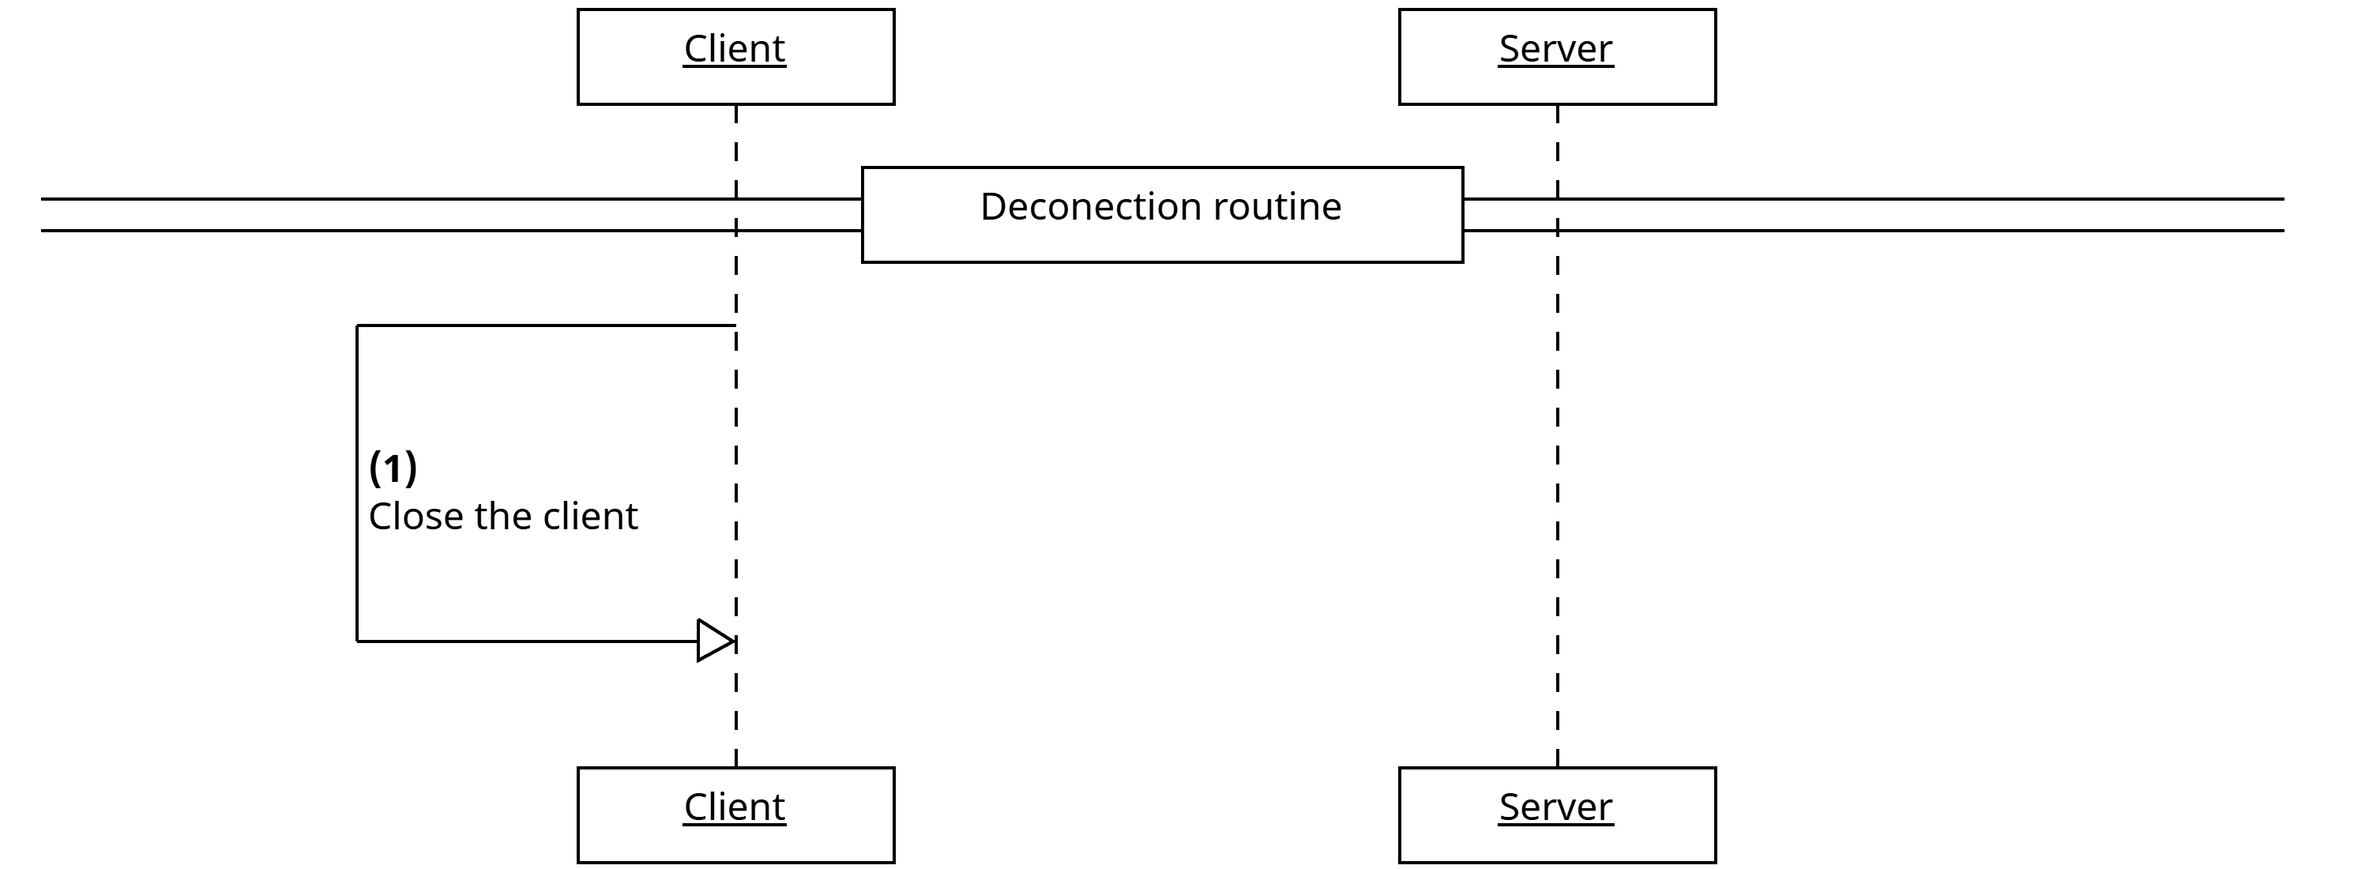
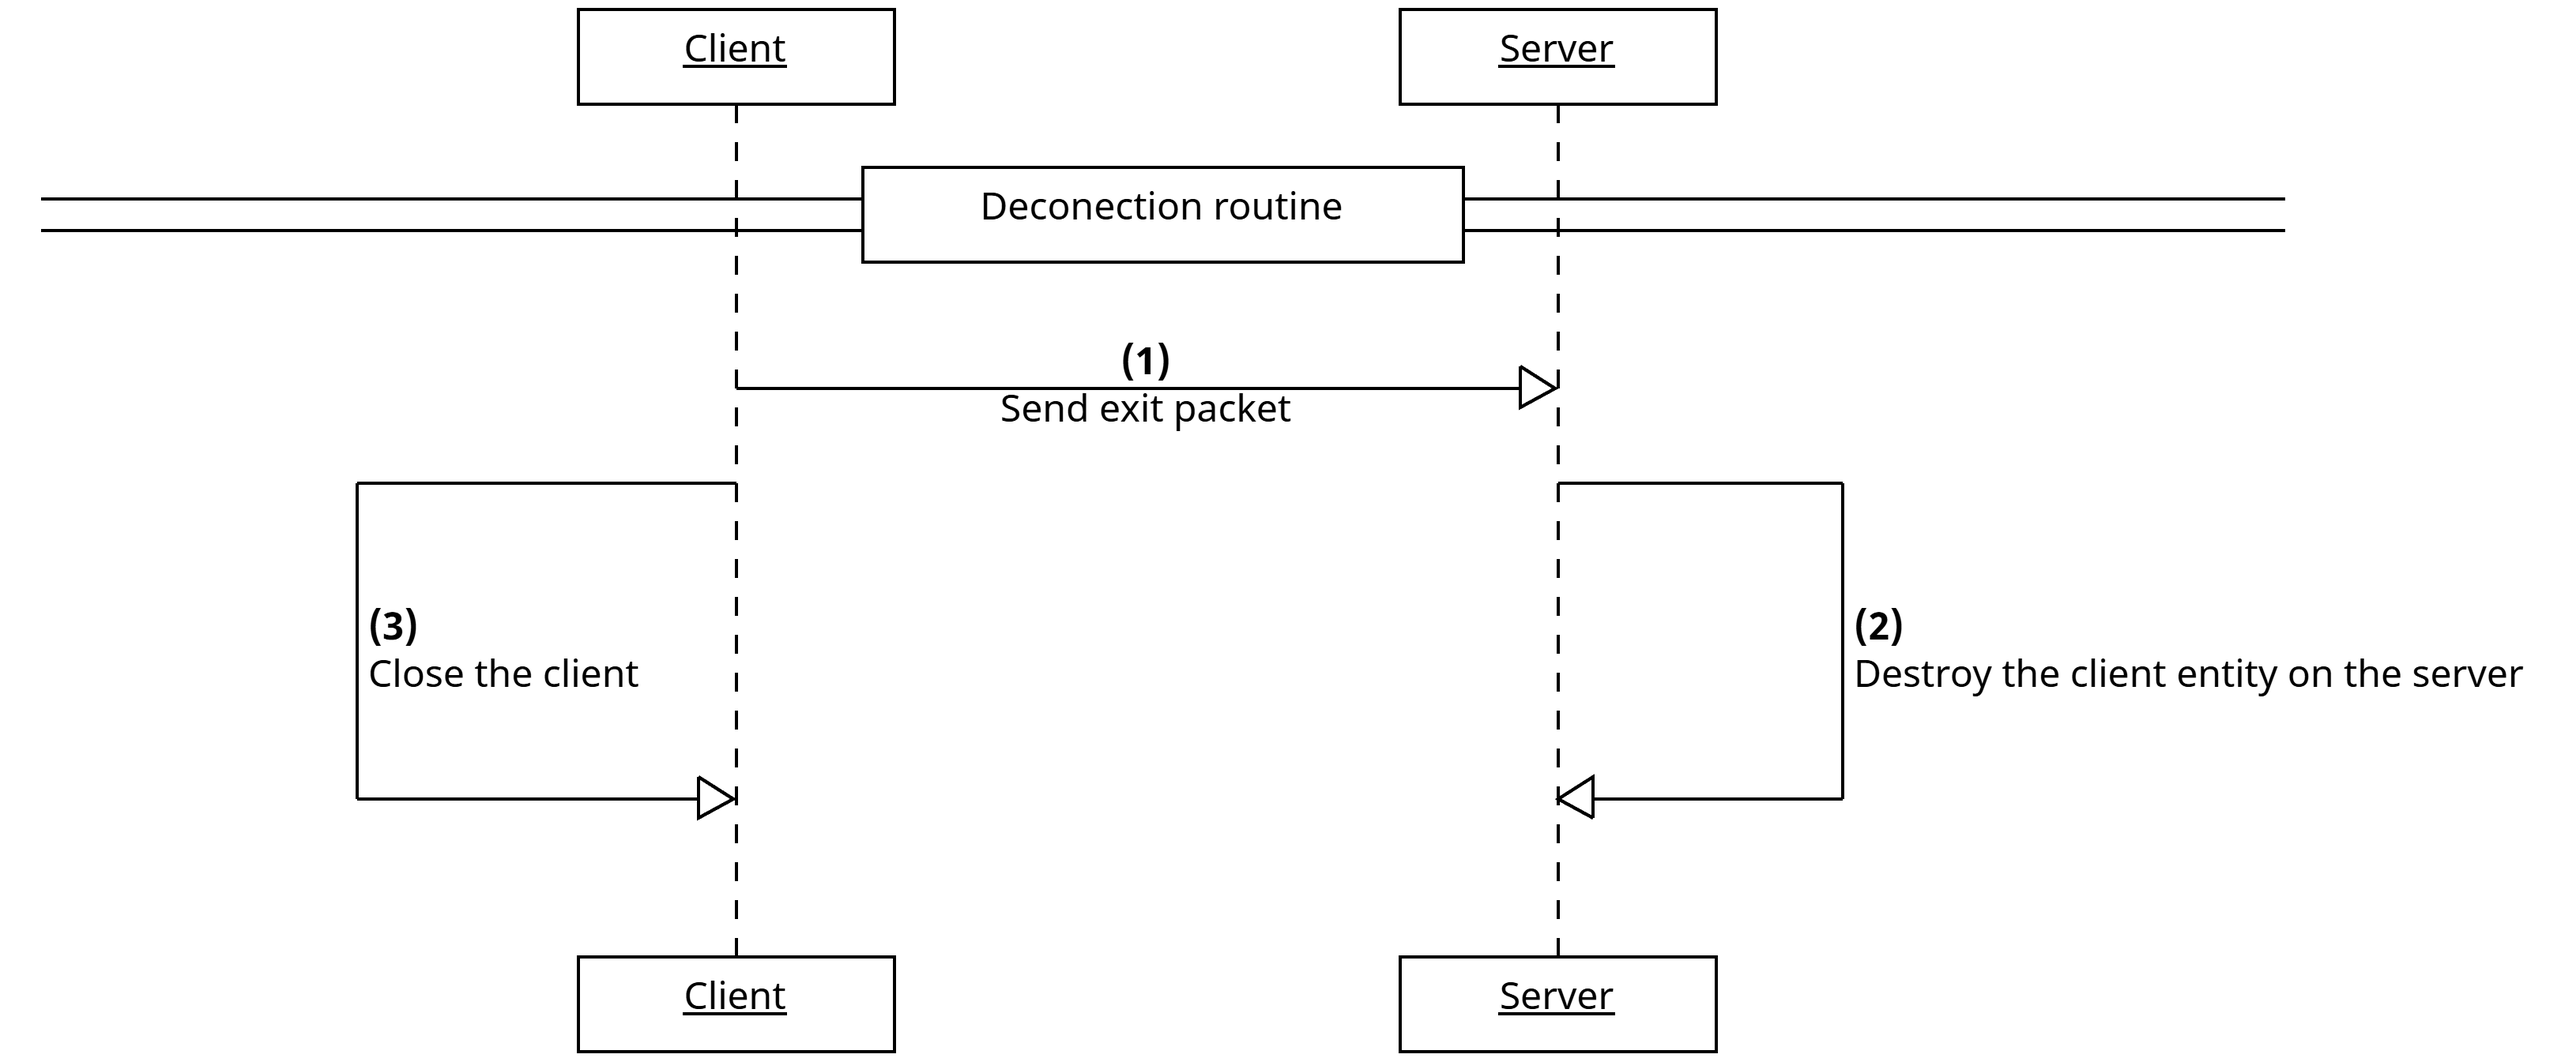
complet the protocol documentation

diff --git a/src/main/java/ch/heig/network/networkHandler/ServerNetworkHandlerSystem.java b/src/main/java/ch/heig/network/networkHandler/ServerNetworkHandlerSystem.java
@@ -6,7 +6,6 @@
 
 package ch.heig.network.networkHandler;
 
-import ch.heig.core.Entity;
 import ch.heig.network.coreVariant.ServerGame;
 import ch.heig.network.ClientData;
 import ch.heig.network.socket.GameSocket;
@@ -16,7 +15,7 @@ import ch.heig.network.packet.data.EntityData;
 import java.util.*;
 
 public class ServerNetworkHandlerSystem extends NetworkHandlerSystem{
-    private int _gameStateNumber=0;
+    private int _actualGameStateID =2147483647;
 
     private static float _TIME_BEFOR_LOGOUT=500;
 
@@ -47,6 +46,7 @@ public class ServerNetworkHandlerSystem extends NetworkHandlerSystem{
         for ( Packet p : buffer){
             switch(p.type){
                 case PacketType.playerInput :
+                {
                     InputPacket ip = p.safeCast(InputPacket.class);
                     if(ip==null)continue;
 
@@ -57,21 +57,25 @@ public class ServerNetworkHandlerSystem extends NetworkHandlerSystem{
                     cd.entity.receiveInput(ip.input);
                     server.serverPlayers.get(ip.username).lastUpdateClock=0;
                     break;
-                case PacketType.command:
+                }
+                case PacketType.command: {
 
                     // i know normaly this packet is ok, but just for concitency
                     CommandPacket cp = p.safeCast(CommandPacket.class);
-                    if(cp==null)return;
+                    if (cp == null) return;
 
                     // we dont need check if the sender as OP pervilege, we all ready did it in the server socket
                     execCommand(cp);
 
-                    socket.send(cp,cp.inetAddress,cp.port);
+                    socket.send(cp, cp.inetAddress, cp.port);
 
-                    if(cp.commandType== CommandPacket.Command.error)break;
+                    if (cp.commandType == CommandPacket.Command.error) break;
                     // log the output
-                    server.serverPlayers.get(cp.username).logCommandOutput(cp.arg);
+                    ClientData cd = server.serverPlayers.get(cp.username);
+                    if(cd!=null)cd.logCommandOutput(cp.arg);
+
                     break;
+                }
             }
         }
     }
@@ -86,9 +90,8 @@ public class ServerNetworkHandlerSystem extends NetworkHandlerSystem{
         for (INetworkSenderEntity e : _sender) {
             data.add(e.getData());
         }
-        GameStatePacket gsp = new GameStatePacket(data.toArray(new EntityData[0]));
-        gsp.number=_gameStateNumber;
-        _gameStateNumber++;
+        GameStatePacket gsp = new GameStatePacket(_actualGameStateID,data.toArray(new EntityData[0]));
+        _actualGameStateID++;
 
         // send it to all player
         Set<Map.Entry<String,ClientData>> set = server.serverPlayers.entrySet();
@@ -128,7 +131,7 @@ public class ServerNetworkHandlerSystem extends NetworkHandlerSystem{
                 commandPacket.arg="Game start";
                 commandPacket.commandType= CommandPacket.Command.log;
                 break;
-            case CommandPacket.Command.restarGame :
+            case CommandPacket.Command.restartGame:
                 commandPacket.arg="Game re - started";
                 commandPacket.commandType= CommandPacket.Command.log;
                 break;
@@ -141,7 +144,7 @@ public class ServerNetworkHandlerSystem extends NetworkHandlerSystem{
             case CommandPacket.Command.kickPlayer :
 
                 if(!server.serverPlayers.containsKey(commandPacket.arg)){
-                    commandPacket.arg="ERROR : player '"+commandPacket.arg+"' is unknown";
+                    commandPacket.arg="player '"+commandPacket.arg+"' is unknown";
                     commandPacket.commandType= CommandPacket.Command.error;
                     break;
                 }
@@ -154,7 +157,7 @@ public class ServerNetworkHandlerSystem extends NetworkHandlerSystem{
             case CommandPacket.Command.op :
 
                 if(!server.serverPlayers.containsKey(commandPacket.arg)){
-                    commandPacket.arg="ERROR : player '"+commandPacket.arg+"' is unknown";
+                    commandPacket.arg="player '"+commandPacket.arg+"' is unknown";
                     commandPacket.commandType= CommandPacket.Command.error;
                     break;
                 }

diff --git a/src/main/java/ch/heig/network/socket/ServerGameSocket.java b/src/main/java/ch/heig/network/socket/ServerGameSocket.java
@@ -42,7 +42,7 @@ public class ServerGameSocket extends GameSocket{
                 // check client permition
                 ClientData cd = _game.serverPlayers.get(cp.username);
                 if(cd==null || !cd.checkIfPacketProvnence(packet)){
-                    cp.arg="ERROR MESSAGE";
+                    cp.arg="Unknown user";
                     cp.commandType= CommandPacket.Command.error;
                     send(cp,packet.inetAddress,packet.port);
                     return false;
@@ -78,7 +78,12 @@ public class ServerGameSocket extends GameSocket{
                     return false;
                 }
 
-                if(!cd.operator)return false;
+                if(!cd.operator) {
+                    cp.arg="operator privilege are needed for this command";
+                    cp.commandType= CommandPacket.Command.error;
+                    send(cp,packet.inetAddress,packet.port);
+                    return false;
+                }
 
                 // the majority of the thoses command need to be treated in the main game loop du to concurency
                 return true;
@@ -87,8 +92,16 @@ public class ServerGameSocket extends GameSocket{
                 LoginPacket lp = packet.safeCast(LoginPacket.class);
                 if(lp==null)return false;
 
-                if(_game.serverPlayers.containsKey(lp.username)  || lp.username.contains(" ")){
+                if(lp.username.isEmpty() || _game.isLoginPacketError(lp) || lp.username.contains(" ")){
                     lp.id=-1;
+                    send(lp,packet.inetAddress,packet.port);
+                    return false;
+                }
+
+                // the player as resend a login packet with the same info and the packet comme from the right client
+                // so we send back the info
+                if(_game.serverPlayers.containsKey(lp.username)){
+                    lp.id=_game.serverPlayers.get(lp.username).entity.getId();
                     send(lp,packet.inetAddress,packet.port);
                     return false;
                 }

diff --git a/src/main/java/ch/heig/network/networkHandler/ClientNetworkHandlerSystem.java b/src/main/java/ch/heig/network/networkHandler/ClientNetworkHandlerSystem.java
@@ -14,7 +14,6 @@ import ch.heig.entity.player.ServerPlayer;
 import ch.heig.network.coreVariant.ClientGame;
 import ch.heig.entity.SpaceBubble.SpaceBubble;
 import ch.heig.entity.TestNetworkEntity;
-import ch.heig.network.packet.CommandPacket;
 import ch.heig.network.socket.GameSocket;
 import ch.heig.network.packet.GameStatePacket;
 import ch.heig.network.packet.Packet;
@@ -24,18 +23,14 @@ import ch.heig.network.packet.data.PacketDataType;
 
 import java.util.ArrayList;
 import java.util.Arrays;
-import java.util.LinkedList;
-import java.util.Queue;
 
 public class ClientNetworkHandlerSystem extends NetworkHandlerSystem{
 
-    // max time waited befor resending a command (in milli)
-    private static final long _COMMAND_RESEND_TIME=1000;
 
     private final ArrayList<Entity> _serverOwnedEntity=new ArrayList<>();
 
 
-    private int _gameStateNumber=-1;
+    private int _actualGameStateId =0;
 
     private float _lastServerUpdateClock=0;
 
@@ -75,8 +70,10 @@ public class ClientNetworkHandlerSystem extends NetworkHandlerSystem{
                 GameStatePacket gsp = p.safeCast(GameStatePacket.class);
                 if(gsp==null)continue;
 
-                if(gsp.number<=_gameStateNumber && (gsp.number/_gameStateNumber)>0)return;
-                _gameStateNumber=gsp.number;
+                boolean overflow = (_actualGameStateId>=0 && gsp.stateID<0)|| (_actualGameStateId<0 &&gsp.stateID>=0);
+
+                if(gsp.stateID <= _actualGameStateId && !overflow)return;
+                _actualGameStateId =gsp.stateID;
                 applyGameState(gsp);
             }
         }

diff --git a/src/main/java/ch/heig/network/packet/LoginPacket.java b/src/main/java/ch/heig/network/packet/LoginPacket.java
@@ -8,14 +8,15 @@ package ch.heig.network.packet;
 
 public class LoginPacket extends Packet {
     public String username="";              // username valid or ask depending on who send this packet
-    public int id=0;                        // if id < 0 -> username not available, else ok
-    public int playerColor=0;
-    public LoginPacket(){
-        type=PacketType.login;
-    }
+
+    // Use to tell which entity id the player is linked, it's also use in case of error
+    // if the username is invalid, the id will be < 0 to indicated that
+    // if the username is valid, the id will be entity id of player on the server
+    public int id=0;
+    public int playerColor=0;               // selected player color
 
     public LoginPacket(String username, int playerColor){
-        this();
+        type=PacketType.login;
         this.username=username;
         this.playerColor=playerColor;
     }

diff --git a/src/main/java/ch/heig/entity/player/ClientPlayer.java b/src/main/java/ch/heig/entity/player/ClientPlayer.java
@@ -34,7 +34,7 @@ public class ClientPlayer extends Player implements INetworkReceiverEntity {
         _mainClient=mainClient;
         _username=username;
 
-        outineColor=new Color(0x0E3D800, true);
+        outineColor=new Color(0xFFE1D814, true);
 
     }
 
@@ -69,7 +69,7 @@ public class ClientPlayer extends Player implements INetworkReceiverEntity {
         float usernameSize= cp.username.length()*6.5f;
         Vector2f offset=new Vector2f(20+usernameSize/2,-5);
         Vector2f usernamePos=getPosition().add(offset);
-        g.setColor(new Color(0xffff55));
+        g.setColor(outineColor);
         g.fillRect((int)(usernamePos.x-usernameSize/2),(int)(usernamePos.y-17),(int)(usernameSize),4);
         ((Graphics2D) g).setStroke(new BasicStroke(3));
         Vector2f lineStartPose=new Vector2f(new Vector2f((usernamePos.x-usernameSize/2),(int)(usernamePos.y-15)));

diff --git a/src/main/java/ch/heig/network/socket/GameSocket.java b/src/main/java/ch/heig/network/socket/GameSocket.java
@@ -24,7 +24,7 @@ public class GameSocket extends Thread {
     public static final int PORT = 8000;
     private boolean _running=false;
 
-    private String _hostname;
+    private String _hostname="";
     private InetAddress _addr;
     private final int _listenPort;
     private final int _targetPort;
@@ -82,6 +82,12 @@ public class GameSocket extends Thread {
                 if(p==null)continue;
                 p.inetAddress=inPkt.getAddress();
                 p.port=inPkt.getPort();
+
+                // this will mean we are only receiving from the host and no from a bunch of client
+                // in this cas, we need to check the provenence of the packet
+                if(_addr!=null && (!_addr.equals(p.inetAddress) || p.port!=_targetPort)){
+                    continue;
+                }
 
                 if(!packetPreProcess(p))continue;
 

diff --git a/src/main/java/ch/heig/network/coreVariant/ServerGame.java b/src/main/java/ch/heig/network/coreVariant/ServerGame.java
@@ -17,6 +17,7 @@ import ch.heig.network.networkHandler.ServerNetworkHandlerSystem;
 import ch.heig.core.utils.Vector2f;
 import ch.heig.entity.player.ServerPlayer;
 import ch.heig.network.ClientData;
+import ch.heig.network.packet.LoginPacket;
 import ch.heig.network.socket.GameSocket;
 import ch.heig.network.socket.ServerGameSocket;
 
@@ -71,6 +72,15 @@ public class ServerGame extends NetworkGame {
             }
         }
         set.toArray(new ClientData[0])[0].operator=true;
+    }
+
+    public boolean isLoginPacketError(LoginPacket loginPacket){
+        if(!serverPlayers.containsKey(loginPacket.username))return false;
+
+        ClientData cd = serverPlayers.get(loginPacket.username);
+        if(!cd.checkIfPacketProvnence(loginPacket))return true;
+
+        return false;
     }
 
     @Override

diff --git a/src/main/java/ch/heig/cli/ClientCliUtils.java b/src/main/java/ch/heig/cli/ClientCliUtils.java
@@ -2,7 +2,6 @@ package ch.heig.cli;
 
 import ch.heig.network.packet.CommandPacket;
 
-import java.security.KeyPair;
 import java.util.*;
 
 public class ClientCliUtils {
@@ -84,7 +83,7 @@ public class ClientCliUtils {
                         case "stop":
                             return new CommandPacket(CommandPacket.Command.cancelGame,"");
                         case "restart":
-                            return new CommandPacket(CommandPacket.Command.restarGame,"");
+                            return new CommandPacket(CommandPacket.Command.restartGame,"");
                         default:
                             return null;
                     }

diff --git a/src/main/java/ch/heig/network/packet/GameStatePacket.java b/src/main/java/ch/heig/network/packet/GameStatePacket.java
@@ -10,12 +10,15 @@ import java.util.Arrays;
 
 import ch.heig.network.packet.data.EntityData;
 
-public class  GameStatePacket extends Packet{
+public class GameStatePacket extends Packet{
     public static final int PACKET_MAX_SIZE=3000;
-    public int number=0;
+
+    // actual
+    public int stateID =0;
     public final EntityData[] data;
 
-    public GameStatePacket(EntityData ... data){
+    public GameStatePacket(int stateID,EntityData ... data){
+        this.stateID=stateID;
         this.data= Arrays.copyOf(data,data.length);
         this.type=PacketType.gameState;
     }

diff --git a/src/main/java/ch/heig/LocalMain.java b/src/main/java/ch/heig/LocalMain.java
@@ -9,11 +9,6 @@ package ch.heig;
 import ch.heig.core.Game;
 import ch.heig.core.render.GameRender;
 import ch.heig.core.utils.Vector2f;
-import ch.heig.entity.player.DummyPlayer;
-import ch.heig.network.packet.GameStatePacket;
-import ch.heig.network.packet.Packet;
-import ch.heig.network.packet.PacketType;
-import ch.heig.network.packet.SimpleDataPacket;
 import ch.heig.other.Arena;
 import ch.heig.entity.player.Player;
 import ch.heig.entity.SpaceBubble.SpaceBubble;

diff --git a/src/main/java/ch/heig/network/socket/ClientGameSocket.java b/src/main/java/ch/heig/network/socket/ClientGameSocket.java
@@ -74,6 +74,9 @@ public class ClientGameSocket extends GameSocket{
                     _pingRunning=false;
                 }
                 return false;
+            case PacketType.exit:
+
+                return false;
 
             default:
                 return super.packetPreProcess(packet);

diff --git a/src/main/java/ch/heig/network/packet/CommandPacket.java b/src/main/java/ch/heig/network/packet/CommandPacket.java
@@ -28,7 +28,7 @@ public class CommandPacket extends Packet{
     public enum Command{
         none,
         startGame,
-        restarGame,
+        restartGame,
         cancelGame,
         kickPlayer,
         stopServer,
